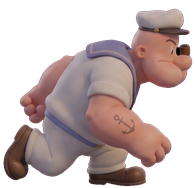
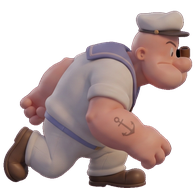
v0.44: eğik yürüyüş yere basıyor, yeni sabırsız ayak vurma pozları ve sesi
Claude-Session: https://claude.ai/code/session_017R1wDYYCQ6S6TWsgKDqrv7

diff --git a/www/js/game.js b/www/js/game.js
@@ -43,7 +43,7 @@ const POMPA_HORTUM_CIKIS = { reis_pump0: [37, 9], reis_pump1: [39, 15] };
 // Boşta bekleme animasyonu zamanlaması (ms)
 const IDLE_BEKLEME_MIN = 1400, IDLE_BEKLEME_MAX = 2800;           // poz 0<->1 arası bekleme
 const IDLE_SABIR_ESIGI = 9000;                                     // bu kadar hareketsiz kalınca sabırsızlanır
-const IDLE_SABIRSIZ_MIN = 150, IDLE_SABIRSIZ_MAX = 260;            // sabırsız pozlar (2<->3): pıt pıt pıt, ikisi de kısa ve eşit
+const AYAK_KALDIR_SURE = 110, AYAK_VURUS_ARALIK = 1000;           // sabırsız ayak vurma: ayak çok kısa kalkar, vurur, 1 sn bekler
 const IDLE_KIRPMA_ARALIK_MIN = 3500, IDLE_KIRPMA_ARALIK_MAX = 7000; // normal beklemede ara sıra çift göz kırpma
 const IDLE_KIRPMA_KARE_SURE = 110;                                  // kırpma: kapa-aç-kapa-aç, her kare kısa
 
@@ -1572,21 +1572,28 @@ class Oyun extends Phaser.Scene {
       r.idleSure = 0; r.blinkAsama = 0; r.blinkZaman = undefined;
     } else if (r.yerde) {
       // Boşta bekleme: ilk iki poz arasında aralıklarla geçiş yapar (peş peşe değil).
-      // Uzun süre kıpırdamazsa sabırsızlanıp ayağını yere vurma moduna (2-3, pıt pıt pıt) geçer.
+      // Uzun süre kıpırdamazsa sabırsızlanıp ayağını yere vurmaya başlar.
       r.idleSure = (r.idleSure || 0) + dt * 1000;
       const sabirsiz = r.idleSure > IDLE_SABIR_ESIGI;
-      if (r.idleDegisim === undefined || zaman > r.idleDegisim || r.idleSabirsizDi !== sabirsiz) {
-        r.idlePoz = r.idlePoz === 0 ? 1 : 0;
-        r.idleSabirsizDi = sabirsiz;
-        const minB = sabirsiz ? IDLE_SABIRSIZ_MIN : IDLE_BEKLEME_MIN;
-        const maxB = sabirsiz ? IDLE_SABIRSIZ_MAX : IDLE_BEKLEME_MAX;
-        r.idleDegisim = zaman + Phaser.Math.Between(minB, maxB);
-        if (sabirsiz) this.ses("ses_ayak_vur", { volume: 0.8 });
-      }
       if (sabirsiz) {
-        tex = r.idlePoz === 0 ? "reis_idle2" : "reis_idle3";
+        // Ayak vurma döngüsü: ayak çok kısa kalkar (idle3) -> yere vurur, kum adım sesi çalar (idle2)
+        // -> 1 sn bekler -> tekrar. Ses her vuruşta yeniden çalınır; böylece ses ile ayak hep aynı
+        // anda olur (uzun bir ses dosyasını döngüye alsaydık adımlar ayakla senkron kalmazdı).
+        if (!r.ayakVuruyor) { r.ayakVuruyor = true; r.ayakKalkik = true; r.ayakDegisim = zaman + AYAK_KALDIR_SURE; }
+        if (zaman > r.ayakDegisim) {
+          if (r.ayakKalkik) {
+            r.ayakKalkik = false; r.ayakDegisim = zaman + AYAK_VURUS_ARALIK;
+            this.ses("ses_ayak_vur", { volume: 0.8 });
+          } else { r.ayakKalkik = true; r.ayakDegisim = zaman + AYAK_KALDIR_SURE; }
+        }
+        tex = r.ayakKalkik ? "reis_idle3" : "reis_idle2";
         r.blinkAsama = 0; r.blinkZaman = undefined;
       } else {
+        r.ayakVuruyor = false;
+        if (r.idleDegisim === undefined || zaman > r.idleDegisim) {
+          r.idlePoz = r.idlePoz === 0 ? 1 : 0;
+          r.idleDegisim = zaman + Phaser.Math.Between(IDLE_BEKLEME_MIN, IDLE_BEKLEME_MAX);
+        }
         // Normal beklemede ara sıra çift göz kırpma: kapa-aç-kapa-aç, sonra açık devam
         if (r.blinkZaman === undefined) r.blinkZaman = zaman + Phaser.Math.Between(IDLE_KIRPMA_ARALIK_MIN, IDLE_KIRPMA_ARALIK_MAX);
         if (!r.blinkAsama && zaman > r.blinkZaman) { r.blinkAsama = 1; r.blinkDegisim = zaman + IDLE_KIRPMA_KARE_SURE; }

diff --git a/www/js/config.js b/www/js/config.js
@@ -1,7 +1,7 @@
 // Oyunun tüm ayarları burada. AdMob ID'lerini buraya yaz.
 window.OYUN_CONFIG = {
   oyunAdi: "DigPopeyeDug",
-  surum: "v0.43", // sağ altta görünür
+  surum: "v0.44", // sağ altta görünür
   paketAdi: "com.jawk.digpopeyedug", // Play Store'a yüklendikten sonra DEĞİŞTİRİLEMEZ
 
   reklam: {

diff --git a/NOTLAR.md b/NOTLAR.md
@@ -2,6 +2,12 @@
 
 ## Bekleyenler
 
+## v0.44 — Eğik Yürüyüş Yere Basıyor, Yeni Ayak Vurma
+- Eğik yürüyüş kareleri her biri kendi ayak tabanına hizalandı; ayak artık her karede yere değiyor (bazı karelerde 1-9 px havadaydı).
+- Uzun beklemedeki sabırsız ayak vurma yeni pozlarla değiştirildi (reis_idle2 ayak yerde, reis_idle3 ayak kalkık).
+- Ayak vurma döngüsü: ayak çok kısa (110 ms) kalkar, yere vurur ve kum adım sesi çalar, 1 sn bekler, tekrar.
+- Yeni ses (ses_ayak_vur): verilen kum adım kaydından tek ve temiz bir adım kesildi; her vuruşta çalar, ayakla tam senkron.
+
 ## v0.43 — Heykel Yerleşimi (Çerçevesiz)
 - Bölüm 26: heykel bir satır yukarı alındı, ağzı dar yarığın hemen dibinde; sadece oturduğu satır oyuk, üst kısmı yarığın yanlarındaki toprağın önünde durur. Kayanın altı sağlam.
 - Bölüm 43 / 45: duvara açılan çerçeve geri alındı; heykelin sırtı duvarın önünde görünür.
